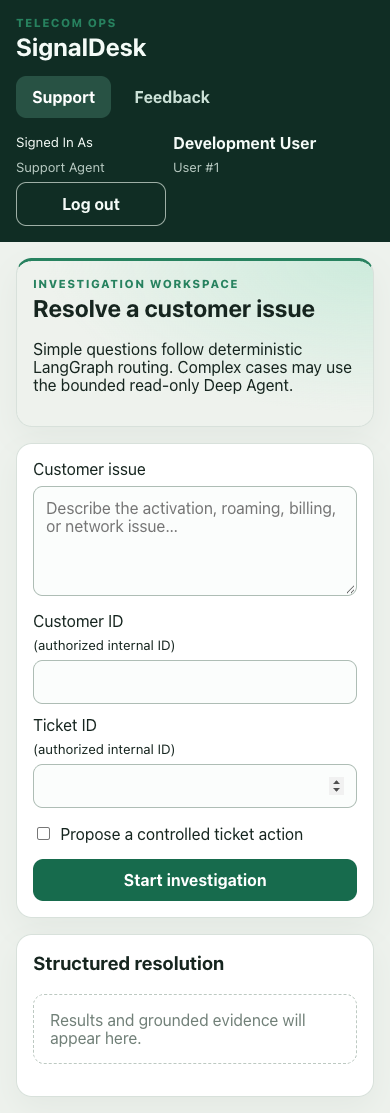
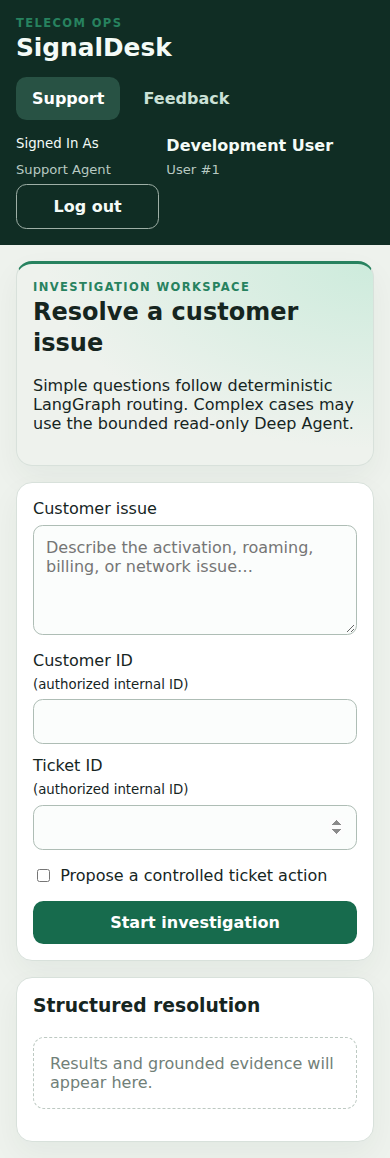
docs: add reviewed hosted demo captures and exact validation evidence

diff --git a/docs/demo-evidence.md b/docs/demo-evidence.md
@@ -61,3 +61,34 @@ supported verified fix was established; DHI migration is not included.
 Project and image names are public-portfolio scoped to avoid reusing the private
 project’s containers or volumes. This PR does not migrate/delete pre-existing
 volumes, change GitHub protections or deploy. Phase 17 IN PROGRESS; 18–19 PENDING.
+
+## Hosted evidence for source commit `53a21b7`
+
+[CI run](https://github.com/ujoy100/signaldesk-portfolio/actions/runs/41410657422)
+and [browser run](https://github.com/ujoy100/signaldesk-portfolio/actions/runs/41410657421)
+ran the PR merge simulation `7f9e127e005c2fb8036169c24acd7e68d2789041`.
+
+| Check | Observed result |
+|---|---|
+| Backend regression | 131 passed, 1 intentional paid-test skip; one known optional RAGAS import warning |
+| Frontend | Lint/build and 7 tests passed |
+| Chrome Playwright | 5 passed in 15.1 seconds |
+| Migration/checkpoint startup | Completed; API/migrate/checkpoint containers share the same image ID |
+| Live HTTP acceptance | Invalid/expired tokens 401; unauthorized approval 403; edit reauthorization true; feedback visible; 1 promoted Qdrant point; exactly-once event delta 1 |
+| Secret/dependency checks | Passed |
+| Strict Trivy image gate | Failed: backend 45 HIGH rows / 9 CVEs, 0 CRITICAL; frontend 0 HIGH/CRITICAL |
+
+The historical 46 HIGH / 10-CVE baseline in SECURITY.md and the existing findings
+report is preserved. This newer scan omits CVE-2026-119586 while reporting the
+same SQLite package version; no application/runtime fix or remediation of that
+CVE is inferred. Remaining IDs: CVE-2025-69720, CVE-2026-119373,
+CVE-2026-16742, CVE-2026-54369, CVE-2026-76642, CVE-2026-78408,
+CVE-2026-78409, CVE-2026-78410 and CVE-2026-9538. Their Fixed Version cells
+are empty in this run. No further speculative runtime change was attempted.
+
+The six checked-in screenshots were refreshed from that browser run’s allowlisted
+artifact after visual privacy review: empty token input at login, fictional
+Development User roles, fictional ticket/knowledge data, no real identities or
+credentials. PNGs contain no text/EXIF metadata. The source SHA above is their
+capture provenance; later documentation/asset commits do not retroactively make
+these captures evidence from another SHA. New runs produce separate artifacts.

diff --git a/README.md b/README.md
@@ -142,7 +142,11 @@ routine work. Do not reuse development databases for tests.
 Integration tests require the isolated PostgreSQL database `telecom_test_db`,
 with schema already migrated to head. The fixture rejects other database names.
 
+The full suite includes an isolated optional RAGAS import-compatibility check;
+install that extra for the suite, while keeping it out of application startup:
+
 ```bash
+uv sync --frozen --extra evaluation
 TEST_DATABASE_URL=postgresql+psycopg:///telecom_test_db uv run pytest backend/tests -q
 uv run ruff check backend
 uv run ruff format --check backend
@@ -193,8 +197,10 @@ behavior, not cloud deployment or verified Microsoft sign-in.
 - Prompt-injection controls are defense in depth, not proof of immunity.
 - Lightweight readiness, local service assumptions, and the recorded Qdrant
   client/server compatibility warning require production review.
-- The strict container gate currently fails on 46 HIGH backend Debian package/
-  advisory rows (10 CVEs); the patched frontend has zero HIGH/CRITICAL findings.
+- The recorded baseline container gate failed on 46 HIGH backend Debian package/
+  advisory rows (10 CVEs); the patched frontend had zero HIGH/CRITICAL findings.
+  The newer PR scan still fails with 45 HIGH rows / 9 CVEs; see
+  [exact demo/CI evidence](docs/demo-evidence.md).
   These unresolved OS advisories block production container release. A separate
   source-review portfolio route is proposed in the [publication plan](docs/portfolio-publication-plan.md);
   it does not clear these findings. See [SECURITY.md](SECURITY.md).

diff --git a/docs/recruiter-demo.md b/docs/recruiter-demo.md
@@ -1,9 +1,10 @@
 # SignalDesk: four-minute working demonstration
 
 This is a local fictional-data demonstration, not a production deployment.
-The backend’s documented **46 HIGH OS-package findings across 10 CVEs** remain
-unresolved. The unchanged strict container scan must continue to fail until a
-supported, verified fix exists. Phase 17 is IN PROGRESS; Phases 18–19 are PENDING.
+The backend’s historical **46 HIGH OS-package findings across 10 CVEs** remain
+documented. The newer PR scan reports 45 HIGH rows / 9 CVEs; see
+[exact evidence](demo-evidence.md). Production release stays blocked while the
+unchanged strict gate fails; no supported verified runtime fix is claimed. Phase 17 is IN PROGRESS; Phases 18–19 are PENDING.
 
 ## Fresh local setup
 
@@ -125,8 +126,8 @@ login, support, approval, knowledge, feedback and mobile under `docs/screenshots
 The isolated browser stack disables provider credentials and uses synthetic data.
 The artifact contains no traces, HAR, video, environment files or logs; retention
 is seven days. Review the artifact before promoting screenshots into the README.
-Existing checked-in screenshots are earlier acceptance captures, not automatically
-replaced by a new workflow run. See [demo evidence](demo-evidence.md).
+Checked-in screenshots are reviewed captures with their source SHA recorded in
+the evidence document; they are not automatically replaced by a new workflow run. See [demo evidence](demo-evidence.md).
 
 Docker-free source checks (after `uv sync --frozen` / frontend `npm ci`):
 
